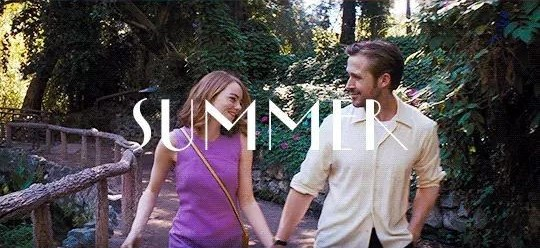
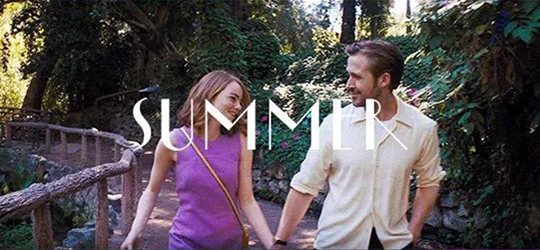
ss

diff --git a/001.LaLand_PJ/css/main.css b/001.LaLand_PJ/css/main.css
@@ -35,6 +35,7 @@ video {
 /* 배경어둡게 z-index */
 .bg{
     background-color:rgba(0, 0, 0, 0.342); /*살짝 투명한 검정으로 배경색*/ 
+    background: linear-gradient(to top, rgba(0, 0, 0, 0), 10%, hsla(0, 0%, 0%, 0.500));
     width:100%; 
     height:100%; 
     position: absolute; /*다른 요소들 위로 겹쳐질 수 있게함*/ 
@@ -43,28 +44,32 @@ video {
 
 /* 배경이미지 설정 */
 .cont section{
-    background: url(../assets/img/bg.jpg) no-repeat center center fixed;
+    background: url(../assets/img/bg.jpg) no-repeat fixed center;
     position: fixed; 
     top: 0; 
     left: 0; 
     min-width: 100%;
     min-height: 100%;
+    background-attachment: fixed;
 }
 
 /* 타이틀 설정 */
 .cont section>h1 {
-    font-size: 2.5em;
+    font-size: 3em;
     margin-bottom: 0;
+    margin-top: 60px;
     
     color: #ffffff;
     text-align: center;
-    padding-top: 60px;
+    padding-top: 10px;
 }
 .cont section>p{
     font-size: 1em;
     margin-top: 12px;
     line-height: 40px;
+    letter-spacing: 0.5px;
     margin: 0;
+    
     color: #ffffff;
     text-align: center;
 }
